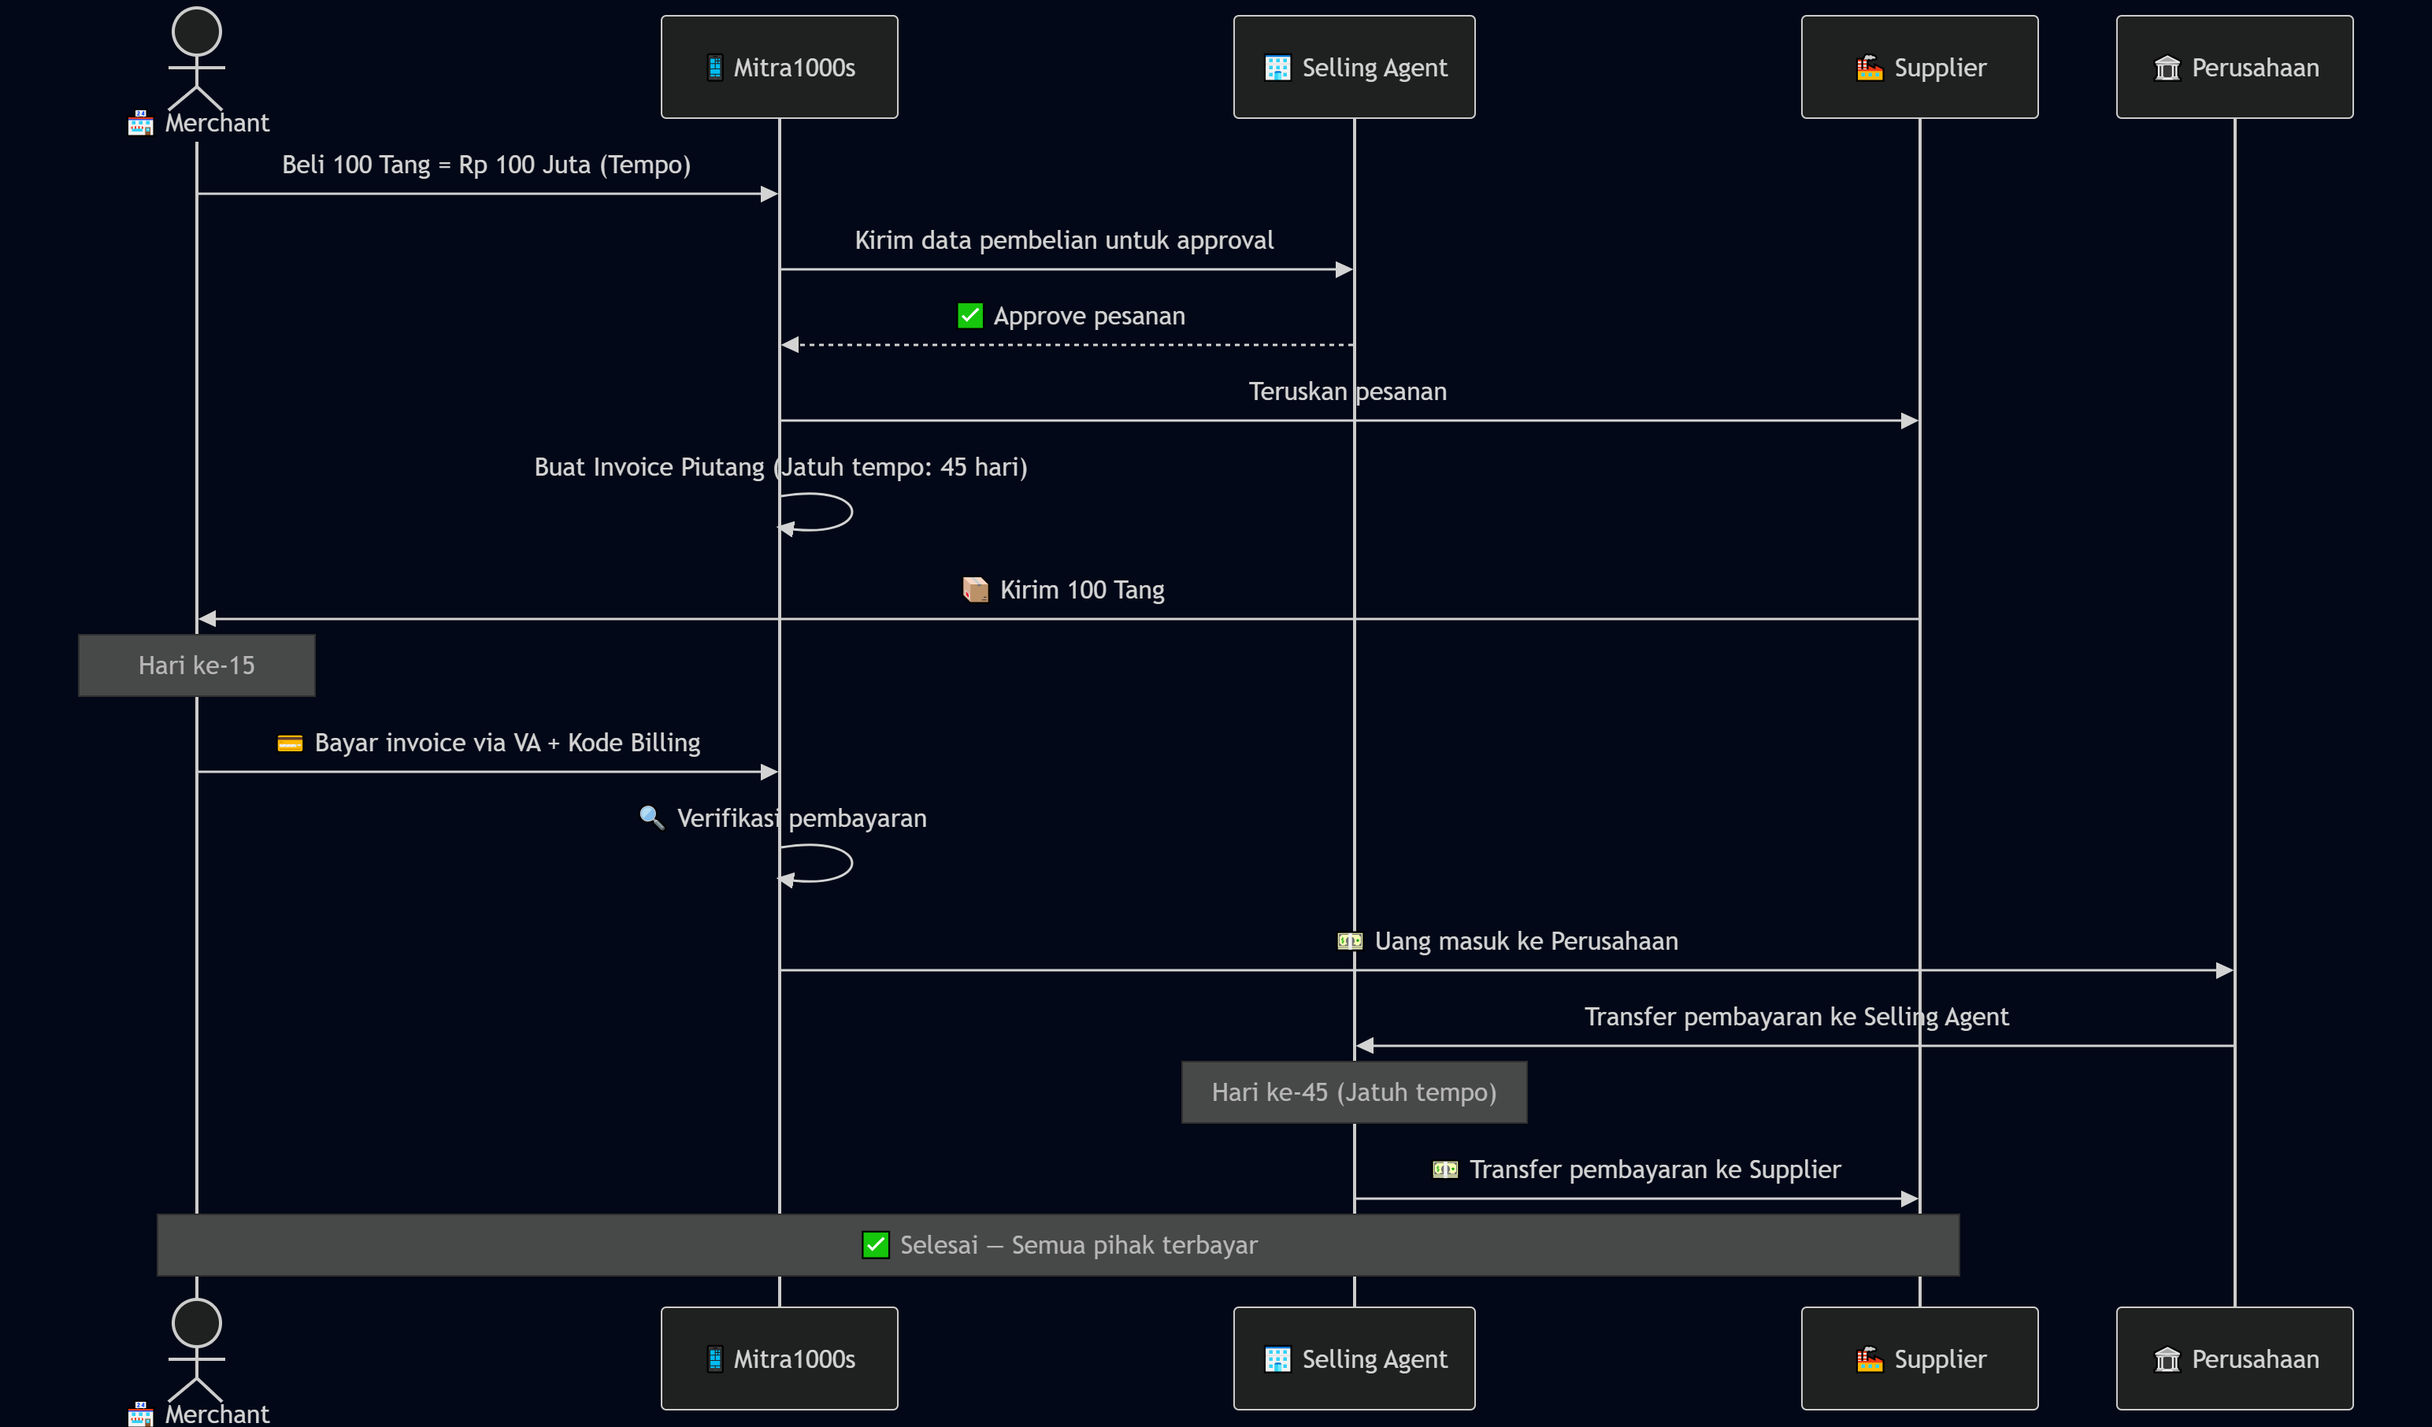
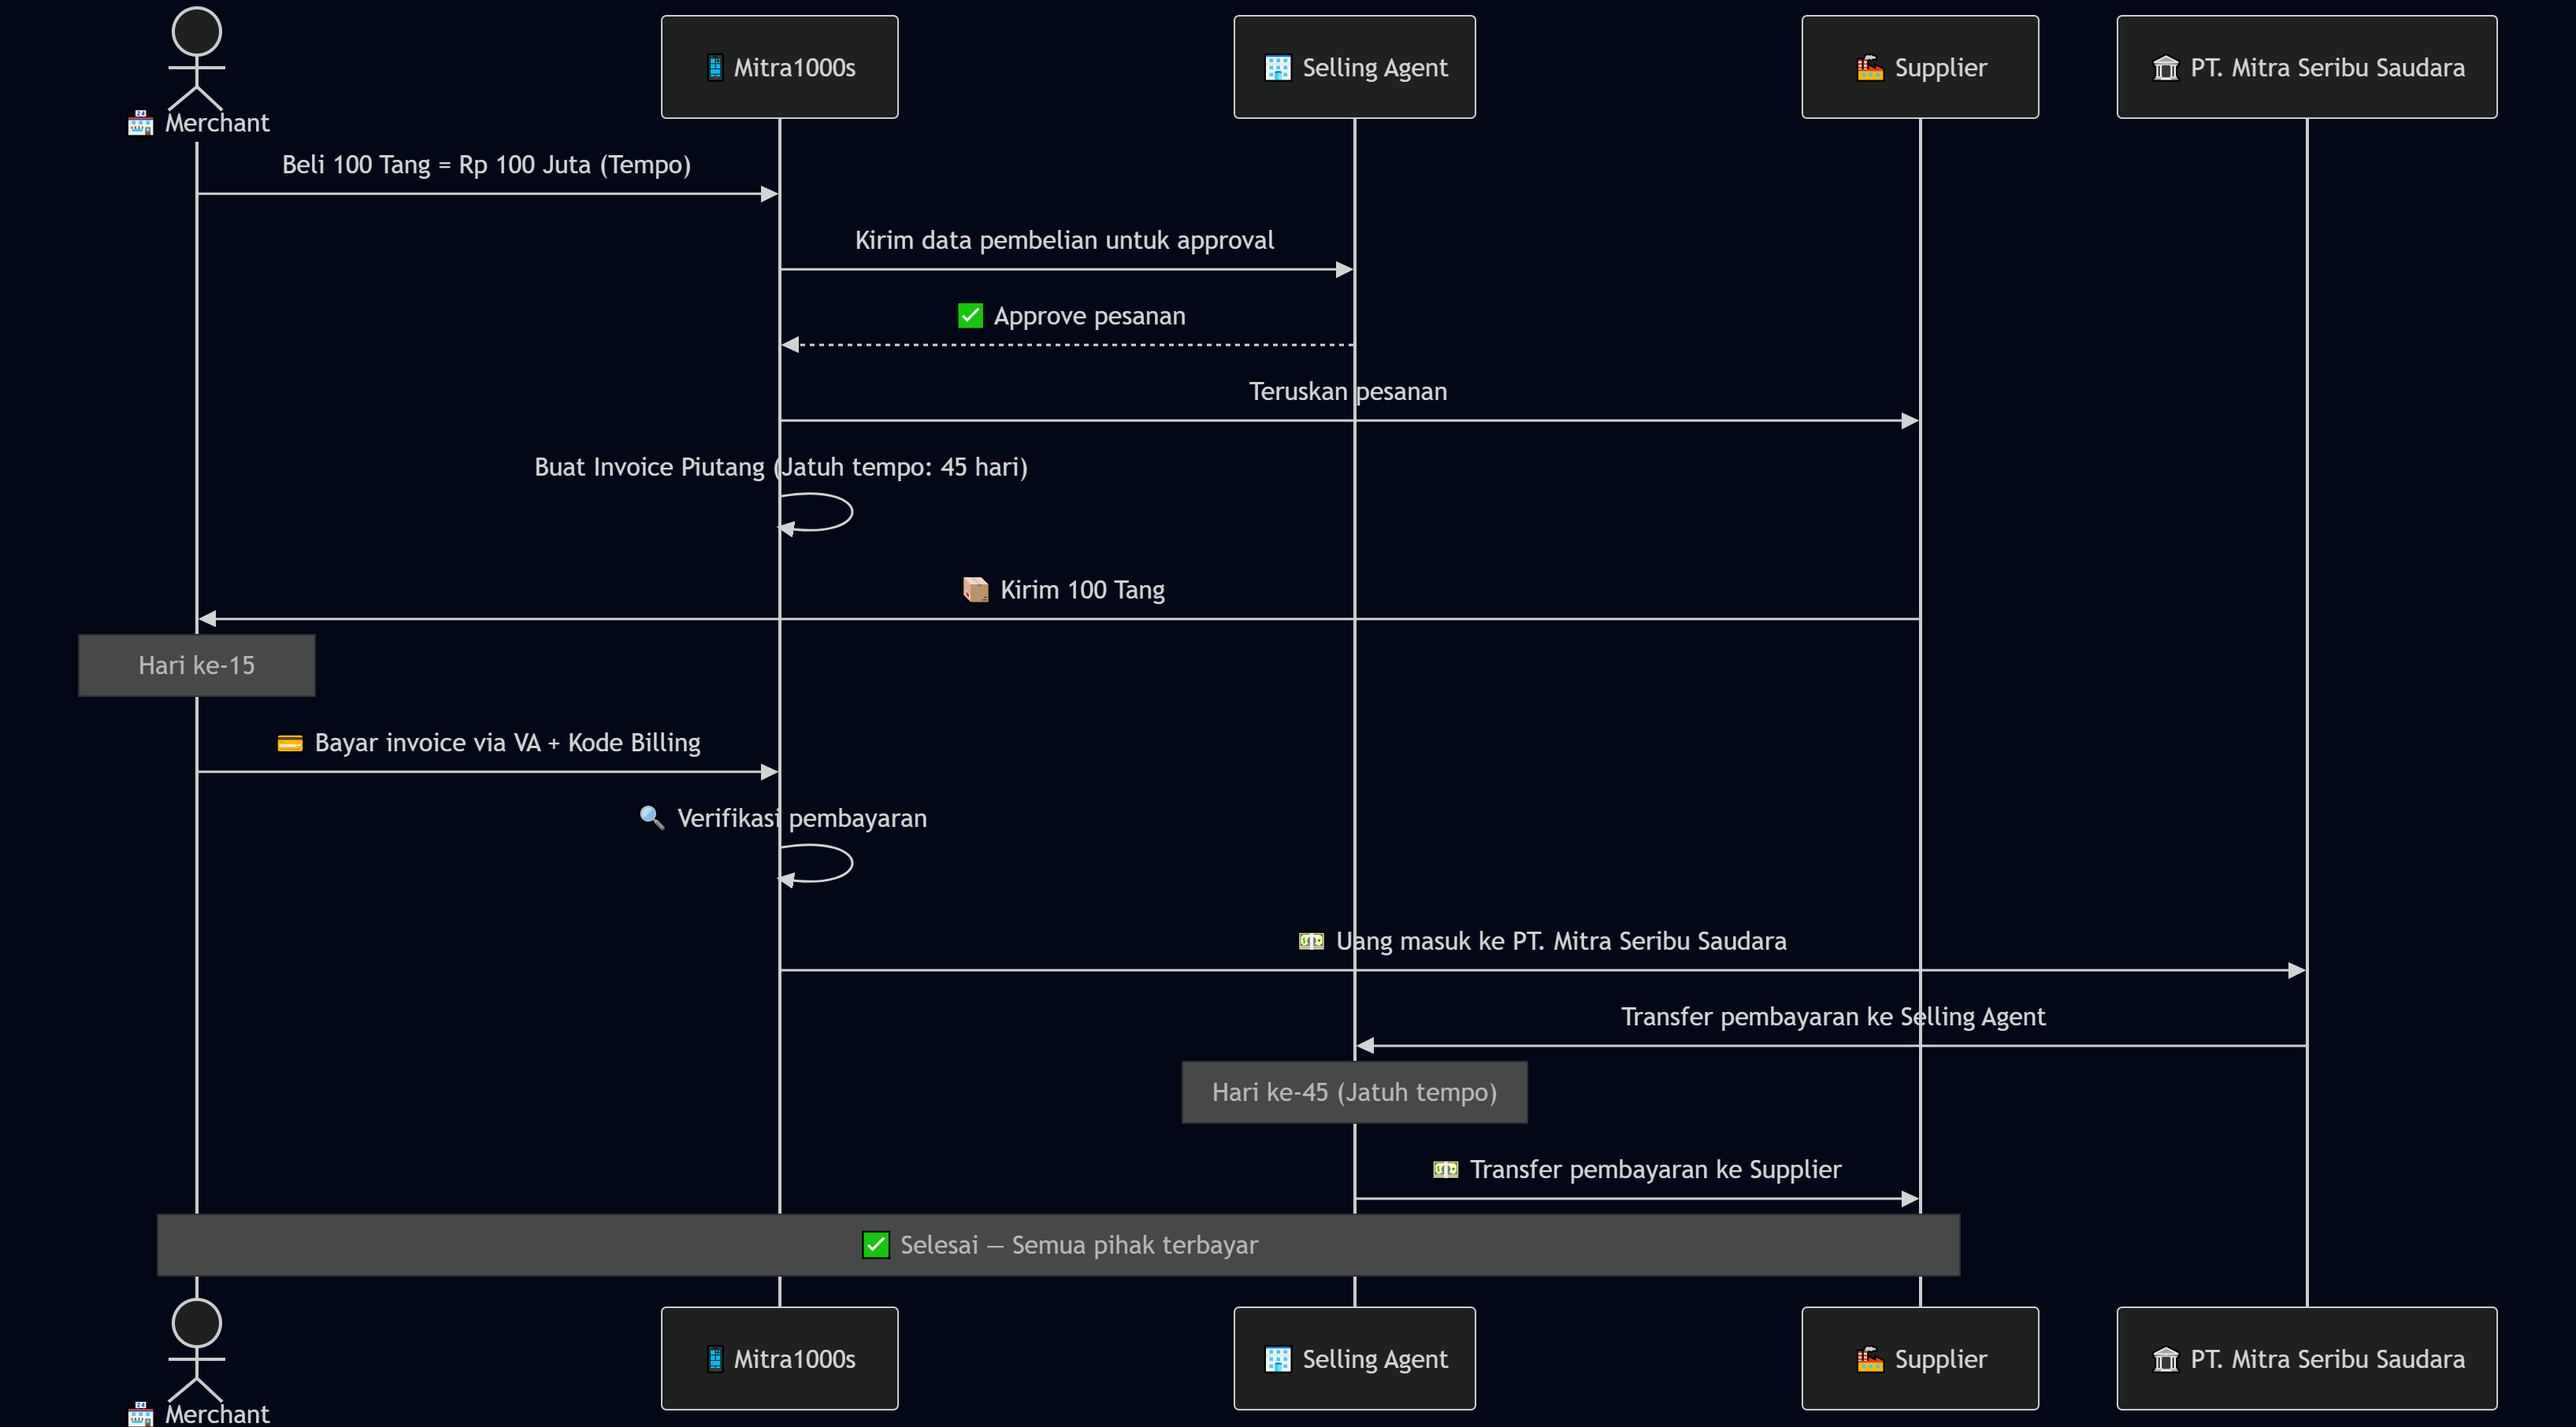
Perusahaan to PT.

diff --git a/index.html b/index.html
@@ -1,12 +1,15 @@
 <!DOCTYPE html>
 <html lang="id">
+
 <head>
   <meta charset="UTF-8">
   <meta name="viewport" content="width=device-width, initial-scale=1.0">
   <title>Fintech1000s — Business Flow Deck</title>
-  <link href="https://fonts.googleapis.com/css2?family=Inter:wght@300;400;500;600;700;800;900&display=swap" rel="stylesheet">
+  <link href="https://fonts.googleapis.com/css2?family=Inter:wght@300;400;500;600;700;800;900&display=swap"
+    rel="stylesheet">
   <link rel="stylesheet" href="flow-deck.css">
 </head>
+
 <body>
   <div class="progress-bar" id="progressBar"></div>
   <div class="slide-counter" id="slideCounter">1 / 13</div>
@@ -22,11 +25,12 @@
       <h1 class="cover-title">Fintech<span class="accent">1000s</span></h1>
       <p class="cover-subtitle">Receivables Financing — Business Flow</p>
       <div class="cover-divider"></div>
-      <p class="cover-desc">Alur bisnis lengkap: transaksi Mitra1000s,<br>perpanjangan tempo, cicilan, dan settlement</p>
+      <p class="cover-desc">Alur bisnis lengkap: transaksi Mitra1000s,<br>perpanjangan tempo, cicilan, dan settlement
+      </p>
       <div class="cover-meta">
         <span class="meta-chip">🏪 Merchant</span>
         <span class="meta-chip">🏢 Selling Agent</span>
-        <span class="meta-chip">🏛 Perusahaan</span>
+        <span class="meta-chip">🏛 PT. Mitra Seribu Saudara</span>
         <span class="meta-chip">🏭 Supplier</span>
       </div>
     </div>
@@ -49,12 +53,12 @@
           <div class="entity-emoji">🏢</div>
           <h3>Selling Agent</h3>
           <p>Distributor / Kreditur</p>
-          <div class="entity-detail">Memiliki plafon di perusahaan<br>(contoh: Rp 100 Juta)</div>
+          <div class="entity-detail">Memiliki plafon di PT. Mitra Seribu Saudara<br>(contoh: Rp 100 Juta)</div>
         </div>
         <div class="entity-arrow">→</div>
         <div class="entity-card ec-company">
           <div class="entity-emoji">🏛</div>
-          <h3>Perusahaan</h3>
+          <h3>PT. Mitra Seribu Saudara</h3>
           <p>Pemilik Platform</p>
           <div class="entity-detail">Pengelola Mitra1000s &<br>Fintech1000s</div>
         </div>
@@ -71,7 +75,7 @@
         <div class="mf-chain">
           <span class="mf-actor mf-mer">Merchant</span>
           <span class="mf-arrow">→ bayar via VA →</span>
-          <span class="mf-actor mf-co">Perusahaan</span>
+          <span class="mf-actor mf-co">PT. Mitra Seribu Saudara</span>
           <span class="mf-arrow">→ transfer →</span>
           <span class="mf-actor mf-sa">Selling Agent</span>
           <span class="mf-arrow">→ di hari ke-45 →</span>
@@ -115,13 +119,25 @@
         Selling Agent yang menyetujui = memberikan <strong>credit limit</strong>.
       </p>
       <div class="solution-steps">
-        <div class="ss-item"><div class="ss-num">1</div><div class="ss-text">Merchant ajukan<br>perpanjangan di Fintech1000s</div></div>
+        <div class="ss-item">
+          <div class="ss-num">1</div>
+          <div class="ss-text">Merchant ajukan<br>perpanjangan di Fintech1000s</div>
+        </div>
         <div class="ss-arrow">→</div>
-        <div class="ss-item"><div class="ss-num">2</div><div class="ss-text">Selling Agent<br>approve / reject</div></div>
+        <div class="ss-item">
+          <div class="ss-num">2</div>
+          <div class="ss-text">Selling Agent<br>approve / reject</div>
+        </div>
         <div class="ss-arrow">→</div>
-        <div class="ss-item"><div class="ss-num">3</div><div class="ss-text">Invoice lama restructured<br>Invoice baru + bunga</div></div>
+        <div class="ss-item">
+          <div class="ss-num">3</div>
+          <div class="ss-text">Invoice lama restructured<br>Invoice baru + bunga</div>
+        </div>
         <div class="ss-arrow">→</div>
-        <div class="ss-item"><div class="ss-num">4</div><div class="ss-text">Merchant cicil<br>mingguan via VA</div></div>
+        <div class="ss-item">
+          <div class="ss-num">4</div>
+          <div class="ss-text">Merchant cicil<br>mingguan via VA</div>
+        </div>
       </div>
     </div>
   </section>
@@ -154,19 +170,54 @@
       <div class="slide-label">SKEMA BUNGA</div>
       <h2>Penambahan <span class="accent">0.25% per 7 Hari</span></h2>
       <div class="interest-grid">
-        <div class="int-card"><div class="int-days">7</div><div class="int-lbl">HARI</div><div class="int-rate">0.25%</div></div>
-        <div class="int-card"><div class="int-days">14</div><div class="int-lbl">HARI</div><div class="int-rate">0.50%</div></div>
-        <div class="int-card"><div class="int-days">21</div><div class="int-lbl">HARI</div><div class="int-rate">0.75%</div></div>
-        <div class="int-card"><div class="int-days">28</div><div class="int-lbl">HARI</div><div class="int-rate">1.00%</div></div>
-        <div class="int-card"><div class="int-days">35</div><div class="int-lbl">HARI</div><div class="int-rate">1.25%</div></div>
-        <div class="int-card"><div class="int-days">42</div><div class="int-lbl">HARI</div><div class="int-rate">1.50%</div></div>
-        <div class="int-card"><div class="int-days">49</div><div class="int-lbl">HARI</div><div class="int-rate">1.75%</div></div>
-        <div class="int-card"><div class="int-days">56</div><div class="int-lbl">HARI</div><div class="int-rate">2.00%</div></div>
+        <div class="int-card">
+          <div class="int-days">7</div>
+          <div class="int-lbl">HARI</div>
+          <div class="int-rate">0.25%</div>
+        </div>
+        <div class="int-card">
+          <div class="int-days">14</div>
+          <div class="int-lbl">HARI</div>
+          <div class="int-rate">0.50%</div>
+        </div>
+        <div class="int-card">
+          <div class="int-days">21</div>
+          <div class="int-lbl">HARI</div>
+          <div class="int-rate">0.75%</div>
+        </div>
+        <div class="int-card">
+          <div class="int-days">28</div>
+          <div class="int-lbl">HARI</div>
+          <div class="int-rate">1.00%</div>
+        </div>
+        <div class="int-card">
+          <div class="int-days">35</div>
+          <div class="int-lbl">HARI</div>
+          <div class="int-rate">1.25%</div>
+        </div>
+        <div class="int-card">
+          <div class="int-days">42</div>
+          <div class="int-lbl">HARI</div>
+          <div class="int-rate">1.50%</div>
+        </div>
+        <div class="int-card">
+          <div class="int-days">49</div>
+          <div class="int-lbl">HARI</div>
+          <div class="int-rate">1.75%</div>
+        </div>
+        <div class="int-card">
+          <div class="int-days">56</div>
+          <div class="int-lbl">HARI</div>
+          <div class="int-rate">2.00%</div>
+        </div>
       </div>
       <div class="int-rules">
-        <div class="int-rule"><span class="ir-icon">📐</span><span>Bunga dihitung dari <strong>sisa pokok</strong> di minggu tersebut (bukan dari total awal)</span></div>
-        <div class="int-rule"><span class="ir-icon">📅</span><span>Cicilan pokok <strong>bebas ditentukan</strong> Merchant setiap minggu</span></div>
-        <div class="int-rule"><span class="ir-icon">💰</span><span>Bunga <strong>dikumulasikan</strong> dan dibayar di <strong>minggu terakhir</strong> bersama sisa pokok</span></div>
+        <div class="int-rule"><span class="ir-icon">📐</span><span>Bunga dihitung dari <strong>sisa pokok</strong> di
+            minggu tersebut (bukan dari total awal)</span></div>
+        <div class="int-rule"><span class="ir-icon">📅</span><span>Cicilan pokok <strong>bebas ditentukan</strong>
+            Merchant setiap minggu</span></div>
+        <div class="int-rule"><span class="ir-icon">💰</span><span>Bunga <strong>dikumulasikan</strong> dan dibayar di
+            <strong>minggu terakhir</strong> bersama sisa pokok</span></div>
       </div>
     </div>
   </section>
@@ -178,7 +229,13 @@
       <h2>Perpanjangan <span class="accent">21 Hari</span> — Pokok Rp 100 Juta</h2>
       <table class="calc-table">
         <thead>
-          <tr><th>Minggu</th><th>Sisa Pokok</th><th>Bunga (0.25%)</th><th>Cicilan Pokok</th><th>Yang Dibayar</th></tr>
+          <tr>
+            <th>Minggu</th>
+            <th>Sisa Pokok</th>
+            <th>Bunga (0.25%)</th>
+            <th>Cicilan Pokok</th>
+            <th>Yang Dibayar</th>
+          </tr>
         </thead>
         <tbody>
           <tr>
@@ -205,13 +262,23 @@
         </tbody>
       </table>
       <div class="calc-summary">
-        <div class="cs-item"><div class="cs-label">Total Pokok</div><div class="cs-value">Rp 100.000.000</div></div>
+        <div class="cs-item">
+          <div class="cs-label">Total Pokok</div>
+          <div class="cs-value">Rp 100.000.000</div>
+        </div>
         <div class="cs-plus">+</div>
-        <div class="cs-item cs-orange"><div class="cs-label">Kumulatif Bunga</div><div class="cs-value">Rp 502.500</div></div>
+        <div class="cs-item cs-orange">
+          <div class="cs-label">Kumulatif Bunga</div>
+          <div class="cs-value">Rp 502.500</div>
+        </div>
         <div class="cs-plus">=</div>
-        <div class="cs-item cs-green"><div class="cs-label">Total Dibayar</div><div class="cs-value">Rp 100.502.500</div></div>
+        <div class="cs-item cs-green">
+          <div class="cs-label">Total Dibayar</div>
+          <div class="cs-value">Rp 100.502.500</div>
+        </div>
       </div>
-      <div class="calc-note">Minggu 1 & 2: hanya bayar cicilan pokok · Minggu 3 (terakhir): sisa pokok + seluruh kumulatif bunga</div>
+      <div class="calc-note">Minggu 1 & 2: hanya bayar cicilan pokok · Minggu 3 (terakhir): sisa pokok + seluruh
+        kumulatif bunga</div>
     </div>
   </section>
 
@@ -238,7 +305,8 @@
             <div class="rp-step">Mg-1 baru: Cicil <strong>Rp 10 Jt</strong> (sisa: Rp 24 Jt)</div>
             <div class="rp-step">Mg-2 baru: Cicil <strong>Rp 10 Jt</strong> (sisa: Rp 14 Jt)</div>
             <div class="rp-step">Mg-3 baru: Cicil <strong>Rp 10 Jt</strong> (sisa: Rp 4 Jt)</div>
-            <div class="rp-step rp-done">✅ Mg-4 baru: Bayar sisa <strong>Rp 4 Jt</strong> + kumulatif bunga <strong>Rp 607.500</strong></div>
+            <div class="rp-step rp-done">✅ Mg-4 baru: Bayar sisa <strong>Rp 4 Jt</strong> + kumulatif bunga <strong>Rp
+                607.500</strong></div>
           </div>
         </div>
       </div>
@@ -259,7 +327,9 @@
         <div class="rule-card">
           <div class="rule-icon">🏢</div>
           <h3>Plafon Selling Agent</h3>
-          <p>Setiap Selling Agent memiliki <strong>plafon</strong> di perusahaan untuk menjadi distributor di Mitra1000s</p>
+          <p>Setiap Selling Agent memiliki <strong>plafon</strong> di PT. Mitra Seribu Saudara untuk menjadi distributor
+            di Mitra1000s
+          </p>
         </div>
         <div class="rule-card">
           <div class="rule-icon">⏳</div>
@@ -279,7 +349,8 @@
         <div class="rule-card">
           <div class="rule-icon">🔒</div>
           <h3>Penalti: Blokir Akun</h3>
-          <p>Penalti hanya berupa <strong>blokir akun Mitra1000s</strong> sehingga Merchant tidak bisa bertransaksi lagi</p>
+          <p>Penalti hanya berupa <strong>blokir akun Mitra1000s</strong> sehingga Merchant tidak bisa bertransaksi lagi
+          </p>
         </div>
         <div class="rule-card">
           <div class="rule-icon">🔄</div>
@@ -316,7 +387,7 @@
         </div>
         <div class="mv-step mv-co">
           <div class="mv-emoji">🏛</div>
-          <div class="mv-name">Perusahaan</div>
+          <div class="mv-name">PT. Mitra Seribu Saudara</div>
           <div class="mv-desc">Terima uang<br>sebagai middleman</div>
         </div>
         <div class="mv-connector">
@@ -374,4 +445,5 @@
 
   <script src="flow-deck.js"></script>
 </body>
+
 </html>
